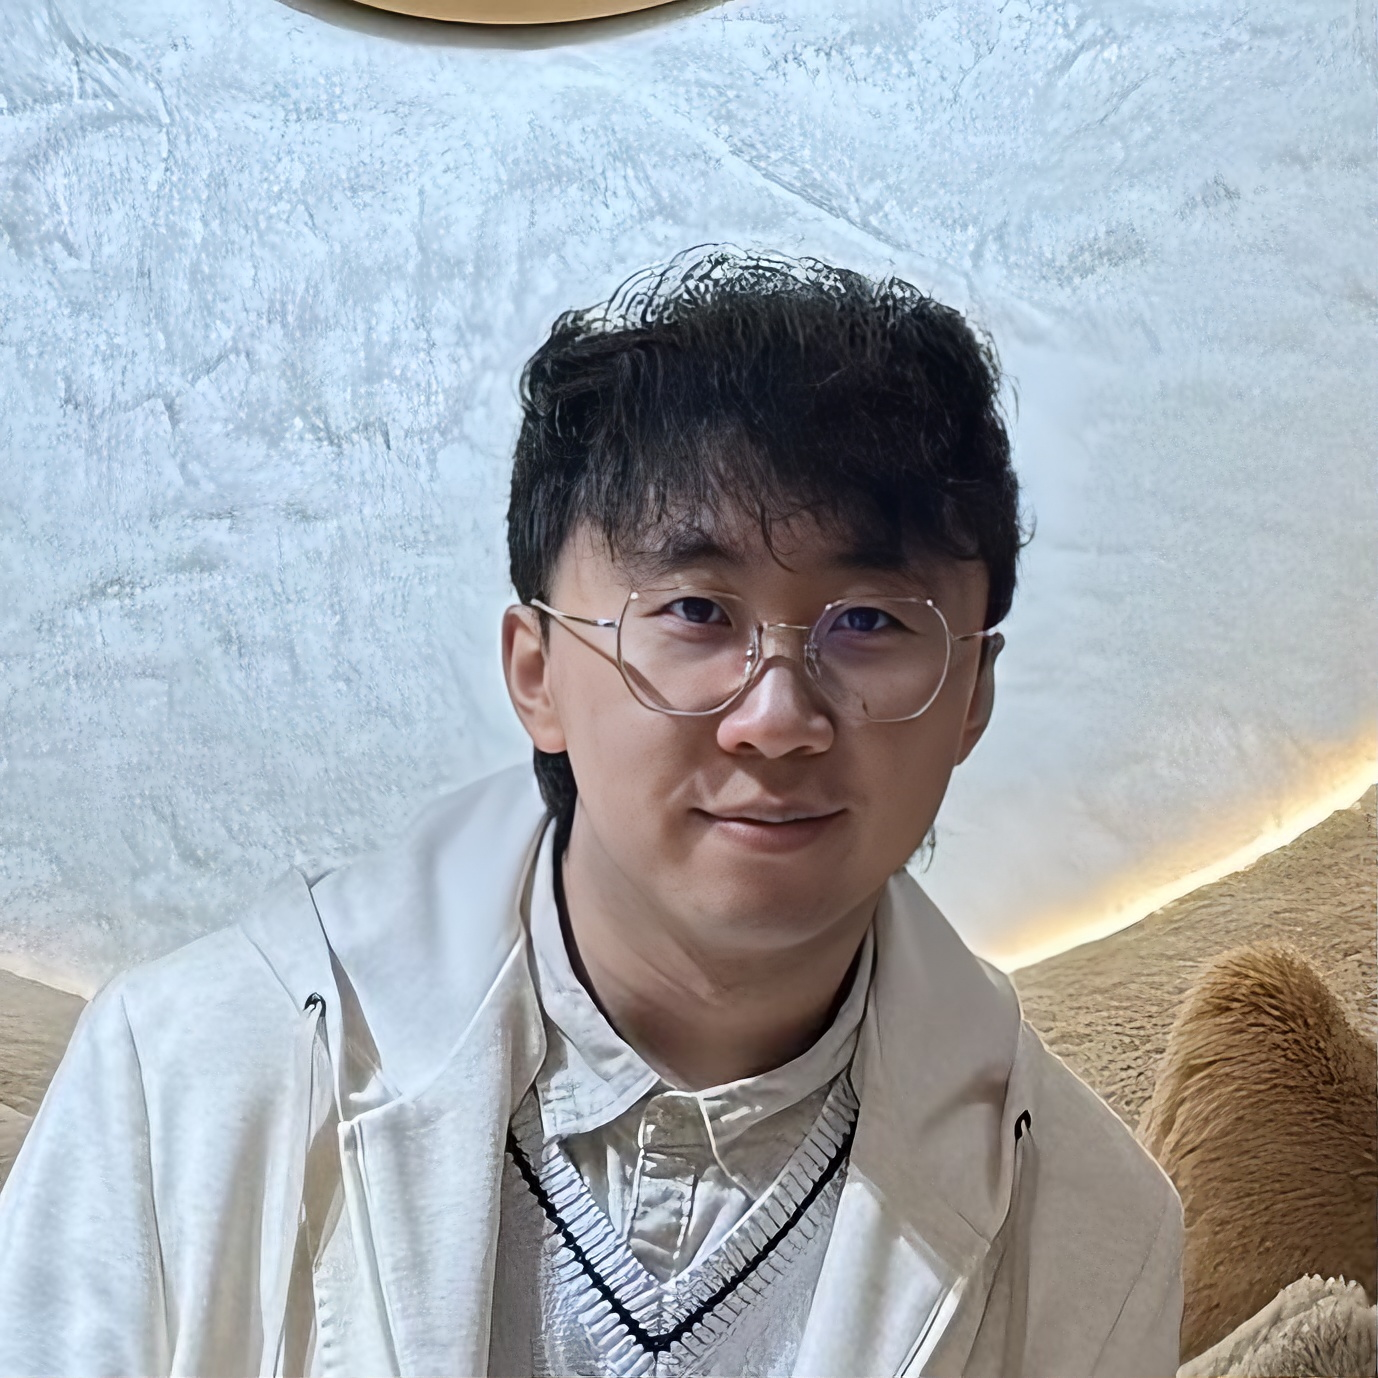
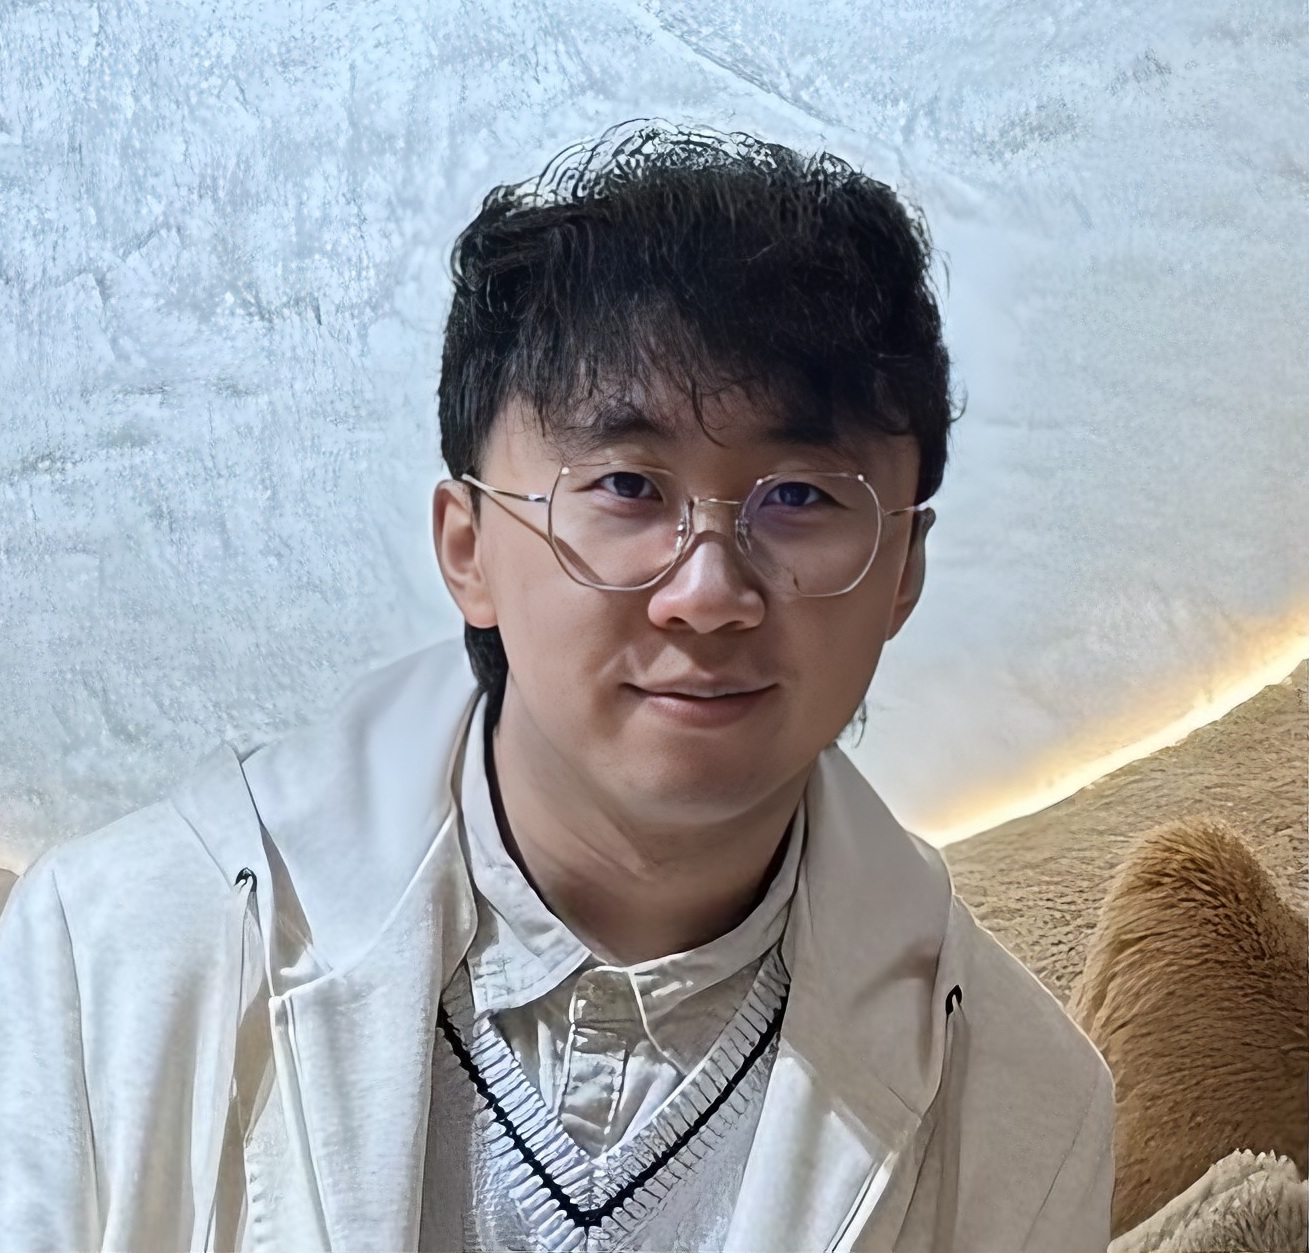
add student organizer; adjust photos.

diff --git a/index.html b/index.html
@@ -517,15 +517,23 @@
     </div>
 
     <div class="container is-max-desktop content">
-
         <div class="columns is-centered is-variable is-2 is-multiline has-text-centered">
+            <div class="column is-one-fifth">
+                <a href="https://qhlin.me/" target="_blank">
+                    <div class="organizer-card">
+                        <img src="./img/qinghong_lin.jpg" alt="Student Organizer: Qinghong Lin" class="organizer-photo">
+                        <p class="organizer-name">Qinghong Lin</p>
+                        <p class="organizer-affiliation">University of Oxford</p>
+                    </div>
+                </a>
+            </div>
 
             <div class="column is-one-fifth">
-                <a href="https://yuiz.github.io/" target="_blank">
+                <a href="https://wenliangguo.github.io/" target="_blank">
                     <div class="organizer-card">
-                        <img src="./img/yu_zhang.jpg" alt="Student Organizer: Yu Zhang" class="organizer-photo">
-                        <p class="organizer-name">Yu Zhang</p>
-                        <p class="organizer-affiliation">City University of Hong Kong</p>
+                        <img src="./img/wenliang_guo.png" alt="Student Organizer: Wenliang Guo" class="organizer-photo">
+                        <p class="organizer-name">Wenliang Guo</p>
+                        <p class="organizer-affiliation">Michigan State University</p>
                     </div>
                 </a>
             </div>
@@ -541,11 +549,11 @@
             </div>
 
             <div class="column is-one-fifth">
-                <a href="https://wenliangguo.github.io/" target="_blank">
+                <a href="https://yuiz.github.io/" target="_blank">
                     <div class="organizer-card">
-                        <img src="./img/wenliang_guo.png" alt="Student Organizer: Wenliang Guo" class="organizer-photo">
-                        <p class="organizer-name">Wenliang Guo</p>
-                        <p class="organizer-affiliation">Michigan State University</p>
+                        <img src="./img/yu_zhang.jpg" alt="Student Organizer: Yu Zhang" class="organizer-photo">
+                        <p class="organizer-name">Yu Zhang</p>
+                        <p class="organizer-affiliation">City University of Hong Kong</p>
                     </div>
                 </a>
             </div>
